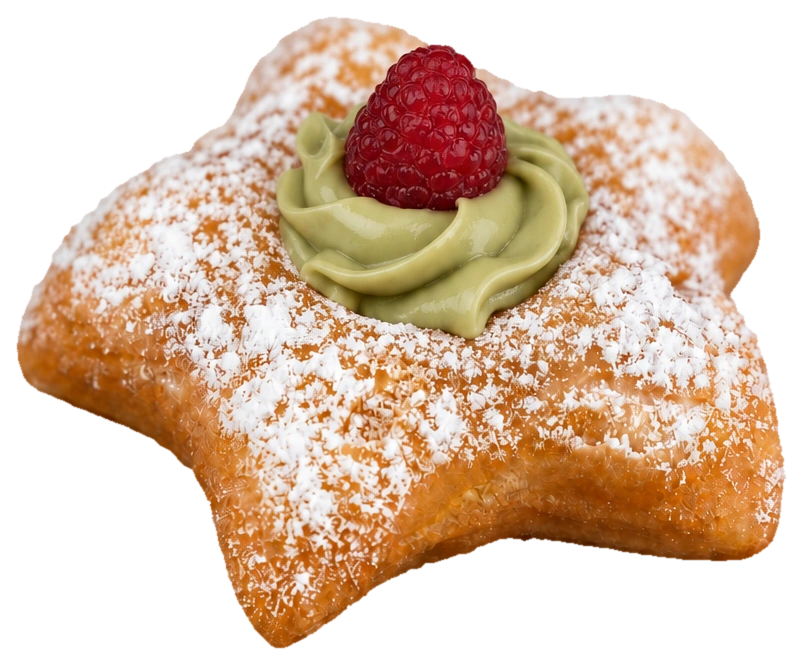
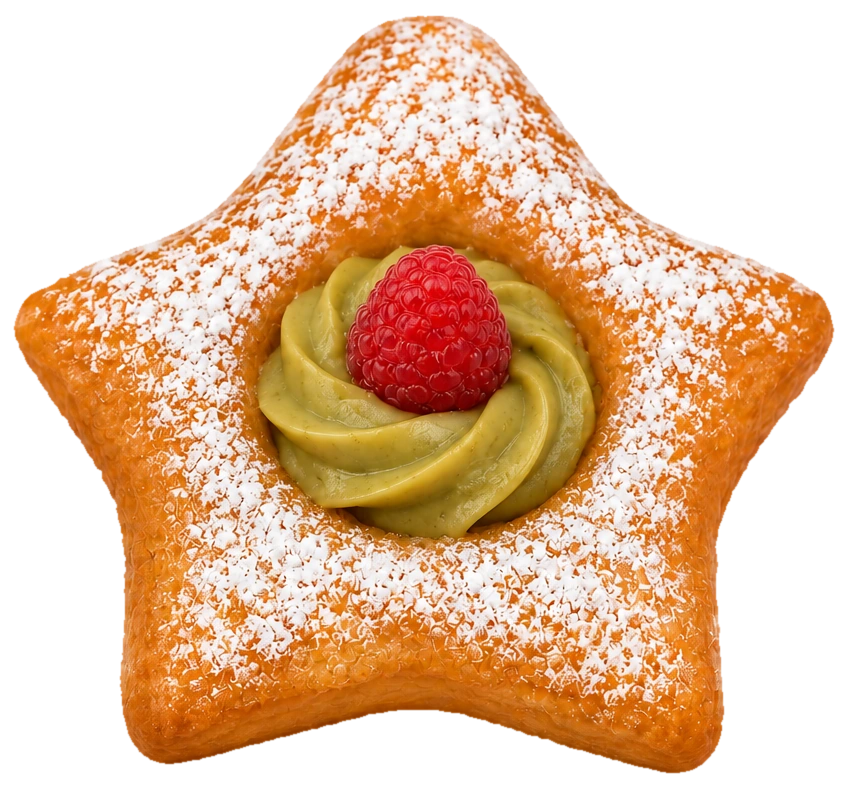
Aggiorna foto Stella, Cuore e Klejner

diff --git a/lib/catalog.ts b/lib/catalog.ts
@@ -63,7 +63,7 @@ export type Tipologia = {
  * browser e ottimizzatore Next a non riutilizzare le vecchie sagome in cache
  * quando i file vengono sostituiti mantenendo lo stesso nome.
  */
-const PRODUCT_IMAGE_REVISION = "2026-10-29-intriko-alpha-1";
+const PRODUCT_IMAGE_REVISION = "2026-11-12-dolci-alpha-1";
 const img = (slug: string) =>
   `/products-4k/${slug}.webp?v=${PRODUCT_IMAGE_REVISION}`;
 

diff --git a/scripts/scontorna-foto-definitive.py b/scripts/scontorna-foto-definitive.py
@@ -44,10 +44,10 @@ ASSETS = {
     "bomba-fritta-semplice-spaccato": "Dolci/Bomba fritta/Bomba fritta semplice/Bomba fritta semplice_aperta.png",
     "bomba-fritta-semplice": "Dolci/Bomba fritta/Bomba fritta semplice/Bomba fritta semplice_chiusa.png",
     # Dolci — Cuore
-    "cuore-cioccolato": "Dolci/Cuore/Cuore Nuì.png",
-    "cuore-crema": "Dolci/Cuore/Cuore crema e fragola.png",
-    "cuore-marmellata": "Dolci/Cuore/Cuore frutti rossi.png",
-    "cuore-pistacchio": "Dolci/Cuore/Cuore pistacchio e lampone.png",
+    "cuore-cioccolato": "../Cuore/Cuore Ciok E LAMPONE.png",
+    "cuore-crema": "../Cuore/Cuore crema e fragola.png",
+    "cuore-marmellata": "../Cuore/Cuore frutti rossi.png",
+    "cuore-pistacchio": "../Cuore/Cuore con pistacchio e lampone.jpg",
     "cuore-semplice": "Dolci/Cuore/Cuore semplice.jpg",
     # Dolci — Frittella
     "frittella-cioccolato": "Dolci/Frittella/Frittella con cioccolato.png",
@@ -76,7 +76,7 @@ ASSETS = {
     "intriko-tre-cioccolati": "Dolci/Intriko/Normali/Intriko 3 cioccolati.png",
     "intriko-vuoto": "Dolci/Intriko/Vuoto/Intriko Vuoto.png",
     # Dolci — Klejner e Lussekatt
-    "klejner": "Dolci/Klejner/ Klejner semplice.jpg",
+    "klejner": "../Klejner semplice (2).png",
     "klejner-cannella": "Dolci/Klejner/Klejner cannella.png",
     "lusekatt": "Dolci/Lussekatt/Lussekatt.jpg",
     # Dolci — Nuvola
@@ -94,10 +94,10 @@ ASSETS = {
     "nuvola-frutti-rossi": "Dolci/Nuvola/Frutti rossi.png",
     "nuvola-pistacchio-e-lampone": "Dolci/Nuvola/Pistacchio e lampone.png",
     # Dolci — Stella
-    "stella-cioccolato": "Dolci/Stella/Stella Nuì.png",
-    "stella-crema": "Dolci/Stella/Stella crema e fragola.png",
-    "stella-marmellata": "Dolci/Stella/Stella frutti rossi.png",
-    "stella-pistacchio": "Dolci/Stella/Stella pistacchio e lampone.png",
+    "stella-cioccolato": "../Stella/Stella Ciock e Lampone.png",
+    "stella-crema": "../Stella/Stella crema e fragola.png",
+    "stella-marmellata": "../Stella/Stella frutti rossi.png",
+    "stella-pistacchio": "../Stella/Stella con pistacchio e lampone.png",
     "stella-semplice": "Dolci/Stella/Stella semplice.jpg",
     # Salati — Focaccine
     "focaccina-bianca": "Salati/Focaccine tre gusti/Focaccina Bianca.png",
